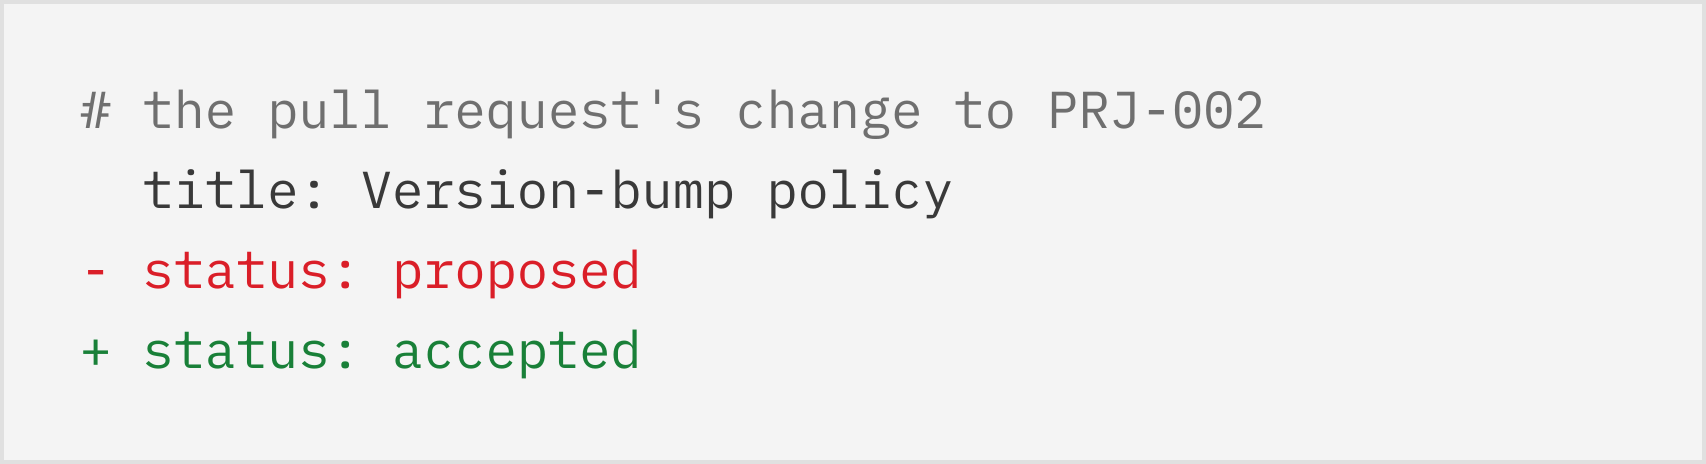
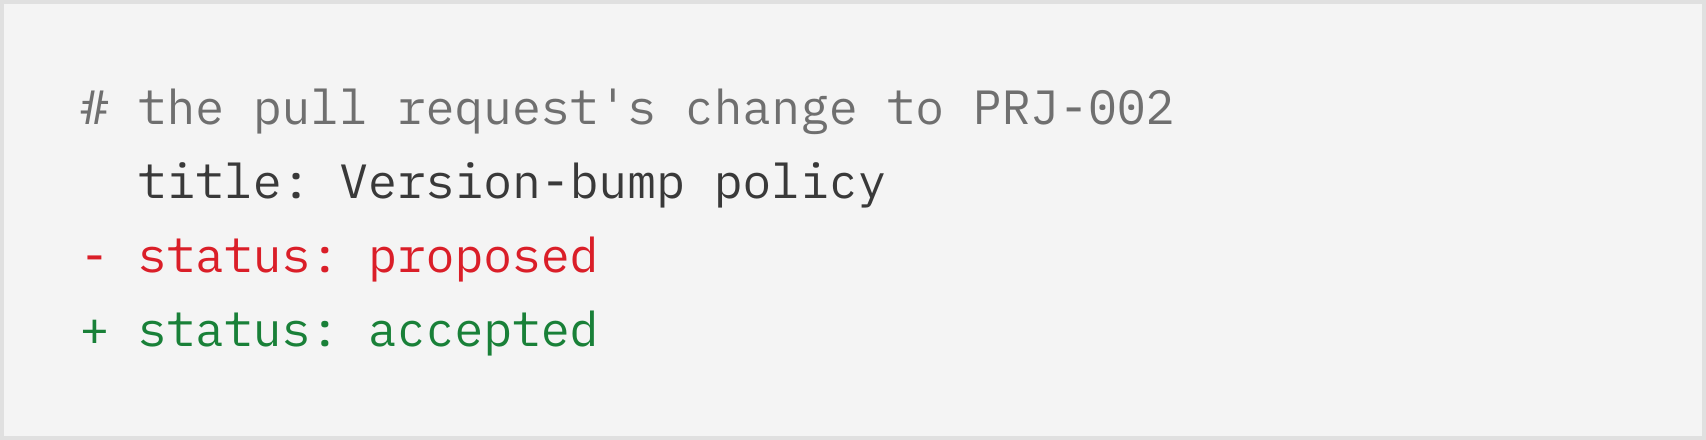
docs(scratchpad): the drafting card shows the agent tying the release guide to the record
"The agent drafts it" now also shows the release guide's front matter
gaining record: [PRJ-002], so the tie the later lookup reads is made in
plain sight, where the record is written. Each card is as tall as its
picture, and the arrows join the cards at their heads.

diff --git a/.pkit/scratchpad/active/2026-10-29-friday-talk.gen.py b/.pkit/scratchpad/active/2026-10-29-friday-talk.gen.py
@@ -584,9 +584,9 @@ def story(pid, y, v):
     w = round((SPAN16 - (n - 1) * LINK_W) / n)
     fs = v.get("font_size", 26)
     pics = [terminal_png(f"{pid}-step{i}".removeprefix("T-"), s["terminal"], w - 64, fs) for i, s in enumerate(st, 1)]
-    h = CARD_IMG_Y + max(ph for _, ph in pics) + 32
     x = MARGIN
     for i, (s, (file, ph)) in enumerate(zip(st, pics), 1):
+        h = CARD_IMG_Y + ph + 32  # each card as tall as its picture; the arrows join them at their heads
         out[f"{pid}-card{i}"] = {
             "template": "step_card", "parent": pid, "role": s.get("role", "neutral"), "head": md(s["head"]), "text": md(s["text"]),
             "file": file, "x": x, "y": y,
@@ -598,10 +598,10 @@ def story(pid, y, v):
         }
         x += w
         if i < n:
-            k, val = link(pid, i, x, y, h)
+            k, val = link(pid, i, x, y, CARD_IMG_Y)
             out[k] = val
             x += LINK_W
-    return out, h
+    return out, CARD_IMG_Y + max(ph for _, ph in pics) + 32
 
 
 PYR_H, PYR_GAP = 172, 18

diff --git a/.pkit/scratchpad/active/2026-10-29-friday-talk.md b/.pkit/scratchpad/active/2026-10-29-friday-talk.md
@@ -46,7 +46,7 @@ The work moves to another clone from here. Everything it needs is on branch `doc
 - The opening ("Why pkit?") pairs each common practice with pkit's opinion: four rows, a grey problem box (pictogram, what usually happens) and a light purple answer box (pictogram, what pkit asks you to do, the part of the talk), joined by bold purple arrows. The maintainer's point: projects do not usually keep decisions, conventions, tied docs or written permissions; pkit's value is its opinion that they should.
 - One style for anything shown as a command line: a light terminal panel (`#F4F4F4`, border `#E0E0E0`), IBM Plex Mono; prompt and `#` comments grey, the command green (`#198038`), its arguments near black. In a listing, what is pkit's is purple (`#6929C4`) and what is yours blue (`#0043CE`), with a legend line.
 - Something to take away (such as `pkit visibility private` on the install slide) is a yellow note: light yellow box, yellow bar on its left, a dark-yellow pictogram, a question as heading, a small terminal and one line.
-- Slides done in this style: "Why pkit?", "Install pkit" (the commands; the full tree of what `pkit init` creates, taken from a real install, `.claude/` shown as yours with pkit's added; the visibility note), "Decision records" and "Decided once, found later". The maintainer split the decisions slide in two on 29 October, since the audience will ask how COR, PRJ and ADR differ. The first says what a record is, and that where it lives says what it is about and who may change it. It shows three kinds as columns, each in its own colour (COR purple, as pkit's is purple in the install slide's legend; PRJ blue for yours; ADR green, the map's `role_architecture`, so it reads apart from PRJ, the maintainer), in two groups whose paths are chips in the terminal style (`chip_png` in the generator): "How work is done" under `.pkit/decisions/` (COR, pkit's principles, and PRJ, your way of working, side by side), then "What you build" (ADR, your architecture, at a path you choose). Each column says what the kind decides, shows a real file, and says why it lives apart. The reason for three places is two questions, what a record is about and who may change it, so the slide must not look like needless complexity (the maintainer). Counts are in the notes, not on the slide: where and why matter more. DEC records wait for the capabilities, which the audience has not met yet; the project-management slide's notes name them. The second carries the takeaway "decided once, found later" as one record's story, PRJ-002, in three cards joined by arrows, each with its picture inside it (the maintainer could not connect steps and pictures kept apart): the agent drafts it (the record, `status: proposed`), you accept it (the pull request's one-line change, as a diff), a later session finds it (`pkit refs records-for .pkit/release/README.md`, which names PRJ-002 directly, beside records of the other two kinds). No DEC or capability appears before the capabilities slides. Open: the lookup reads the anchors files declare (COR-050 point 2), which the talk shows only on "Docs that know when they're wrong", a forward reference the notes name.
+- Slides done in this style: "Why pkit?", "Install pkit" (the commands; the full tree of what `pkit init` creates, taken from a real install, `.claude/` shown as yours with pkit's added; the visibility note), "Decision records" and "Decided once, found later". The maintainer split the decisions slide in two on 29 October, since the audience will ask how COR, PRJ and ADR differ. The first says what a record is, and that where it lives says what it is about and who may change it. It shows three kinds as columns, each in its own colour (COR purple, as pkit's is purple in the install slide's legend; PRJ blue for yours; ADR green, the map's `role_architecture`, so it reads apart from PRJ, the maintainer), in two groups whose paths are chips in the terminal style (`chip_png` in the generator): "How work is done" under `.pkit/decisions/` (COR, pkit's principles, and PRJ, your way of working, side by side), then "What you build" (ADR, your architecture, at a path you choose). Each column says what the kind decides, shows a real file, and says why it lives apart. The reason for three places is two questions, what a record is about and who may change it, so the slide must not look like needless complexity (the maintainer). Counts are in the notes, not on the slide: where and why matter more. DEC records wait for the capabilities, which the audience has not met yet; the project-management slide's notes name them. The second carries the takeaway "decided once, found later" as one record's story, PRJ-002, in three cards joined by arrows, each with its picture inside it (the maintainer could not connect steps and pictures kept apart): the agent drafts it (the record, `status: proposed`, and, to be transparent about where the later lookup's tie comes from, the release guide's front matter gaining `record: [PRJ-002]`, as COR-065 point 6 asks of a document that carries a record out; the maintainer, 29 October), you accept it (the pull request's one-line change, as a diff), a later session finds it (`pkit refs records-for .pkit/release/README.md`, which names PRJ-002 directly, beside records of the other two kinds). No DEC or capability appears before the capabilities slides. The lookup reads the anchors files declare (COR-050 point 2), which "Docs that know when they're wrong" shows later; the notes name it.
 - Keep the flow (the maintainer, 29 October). Each slide is the next step of one story: read its title aloud, then its lead. The lead answers the title and follows from the slide before, and the slide's main visual shows that answer, big enough to read from the room. Read every changed slide this way, with the one before it, before pushing. Counts are main's on 29 October: COR 39 at the end of June, 67 now; PRJ 11 and ADR 74 in project-kit; DEC 83.
 
 **In review: "How pkit fits together", slide 2, before "Install pkit" (swapped by the maintainer, 29 October; the part is now "pkit at a glance").** The maintainer asked for it on 29 October: the audience should see how pkit's parts rest on each other, with the decisions at the top, before the slides take the folders one by one. Its ground is COR-065 (accepted): where an accepted record decides, the rest of the system is its projection; a disagreement is read first as the projection falling short; a record changes only when a person accepts a new one; scratchpad notes come before a record. It is in the slides file (`fits`, the generator's `pyramid` kind) and on the board, and its wording awaits the maintainer's review. It follows the design below, with these changes: "Working rules" for "Rules" (the slides file's vocabulary); "checked first" for "fixed first" (COR-065 point 4); "carries out" for "is the projection of"; plain heads beside real arrows; the bottom line names this week's COR-065; no limit line, which would pass the footer, so the weak spot (hand-made layers can lag) is in the notes. The lead answers the title instead (the maintainer, 29 October: read aloud after "How pkit fits together?", the proposed lead was no answer): "In five layers, from your decisions down to your code: each carries out the ones above it." The proposed lead may go to the decisions slide, not yet decided. The scratchpad box became "Where ideas start: in conversation, and in a scratchpad note when one needs longer" (the maintainer: ideas are shaped in conversation too). It sits left of the apex, tinted purple, its arrow pointing right into Decisions, so the slide reads from left to right (the maintainer); the pyramid moved right and narrowed a little to make room (`center`, `top_w`, `step`), and "Carried out" and "Checked" each take half the right column. The design proposed:
